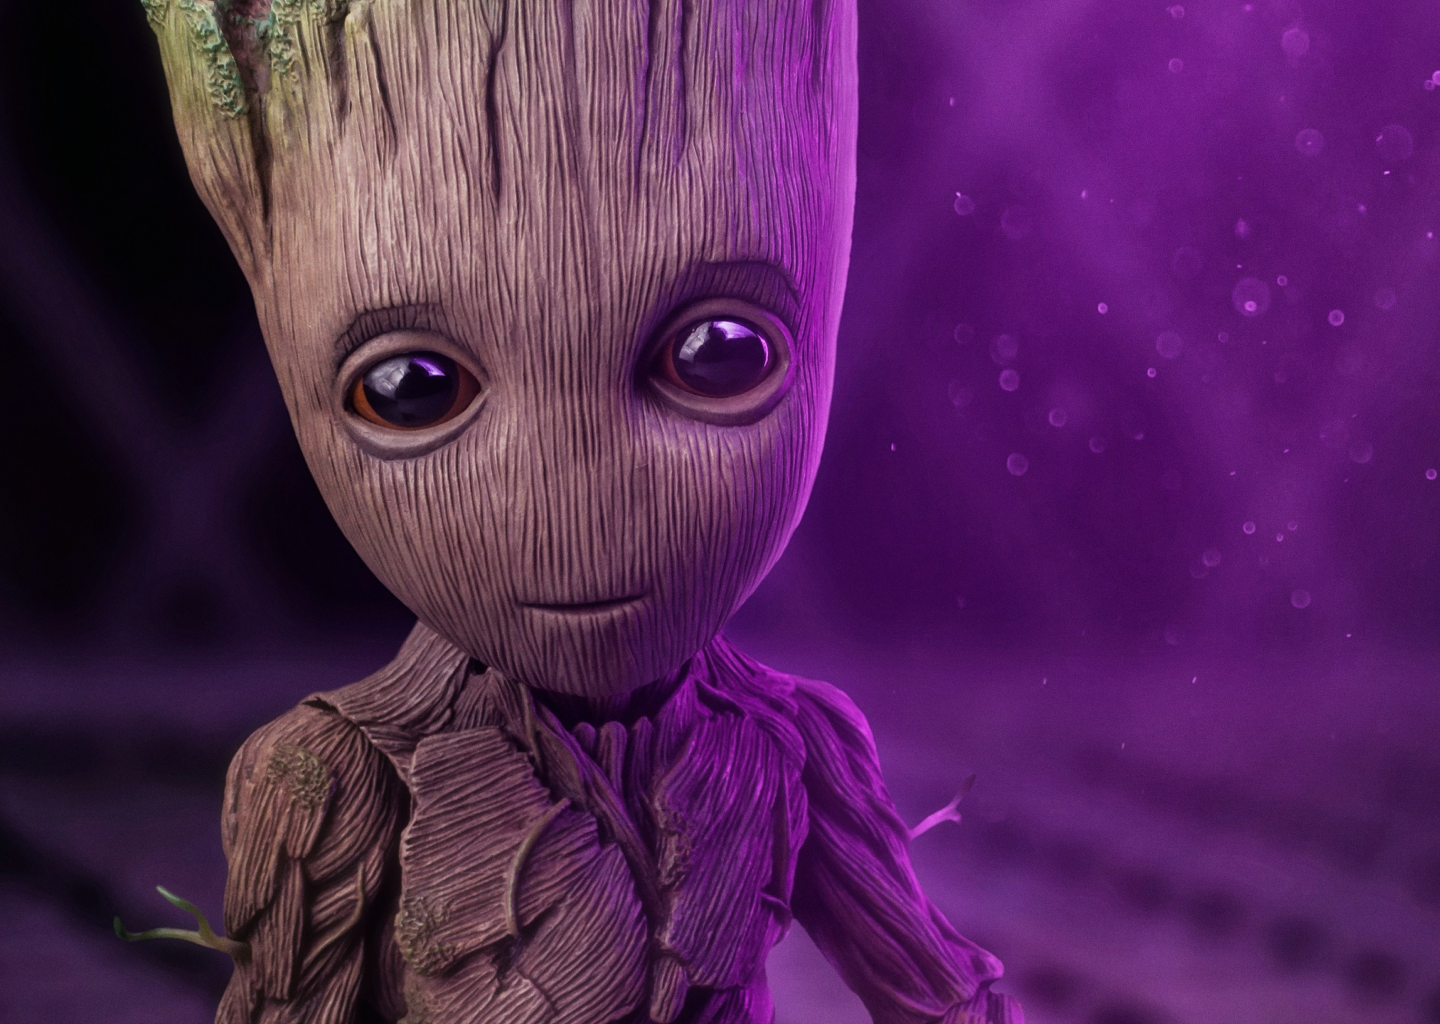
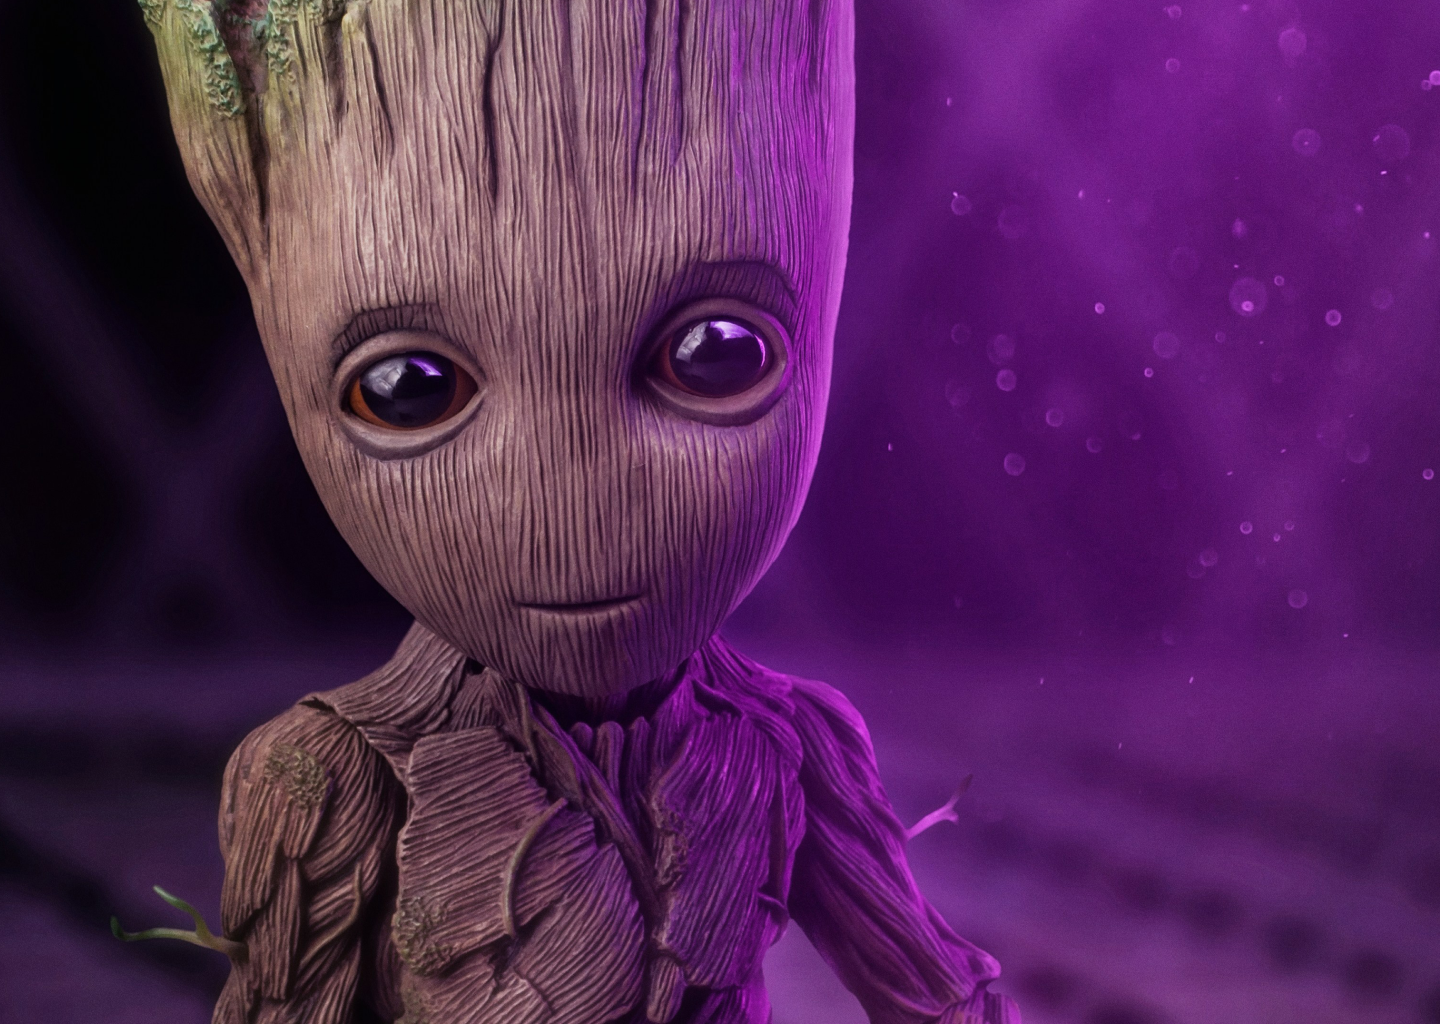
changed the font and size of bg image

Changed region(s): [[0.0938, 0.0, 0.7188, 1.0]]

diff --git a/styles.css b/styles.css
@@ -1,18 +1,16 @@
-@import url('https://fonts.googleapis.com/css2?family=IBM+Plex+Sans:ital,wght@0,100;0,200;0,300;0,400;0,500;0,600;0,700;1,100;1,200;1,300;1,400;1,500;1,600;1,700&display=swap');
-
+@import url('https://fonts.googleapis.com/css2?family=Poppins:ital,wght@0,100;0,200;0,300;0,400;0,500;0,600;0,700;0,800;0,900;1,100;1,200;1,300;1,400;1,500;1,600;1,700;1,800;1,900&display=swap');
+*{
+    margin : 0;
+    padding: 0;
+    box-sizing: border-box;
+}
 :root{
     --primary-color: #FF37AF;
     --white: white;
 }
-*{
-    margin : 0;
-    padding: 0;
-    font-family: 'IBM Plex Sans', sans-serif;
-
-}
 body{
-    font-family: 'IBM Plex Sans', sans-serif;
     color: white;
+    font-family: 'Poppins', sans-serif;
     background-image: url(./assets/Background.png);
     background-repeat: no-repeat;
     background-attachment: fixed;

diff --git a/app.js b/app.js
@@ -26,7 +26,8 @@ function clickHandler() {
               .then(response => response.json())
               .then((json) => {
                         var translatedText = json.contents.translated
-                        outputDiv.innerText = translatedText //output
+                        outputDiv.innerText = translatedText 
+                        outputDiv.style.color = 'black'
                     })
               .catch(errorHandler)
        }
